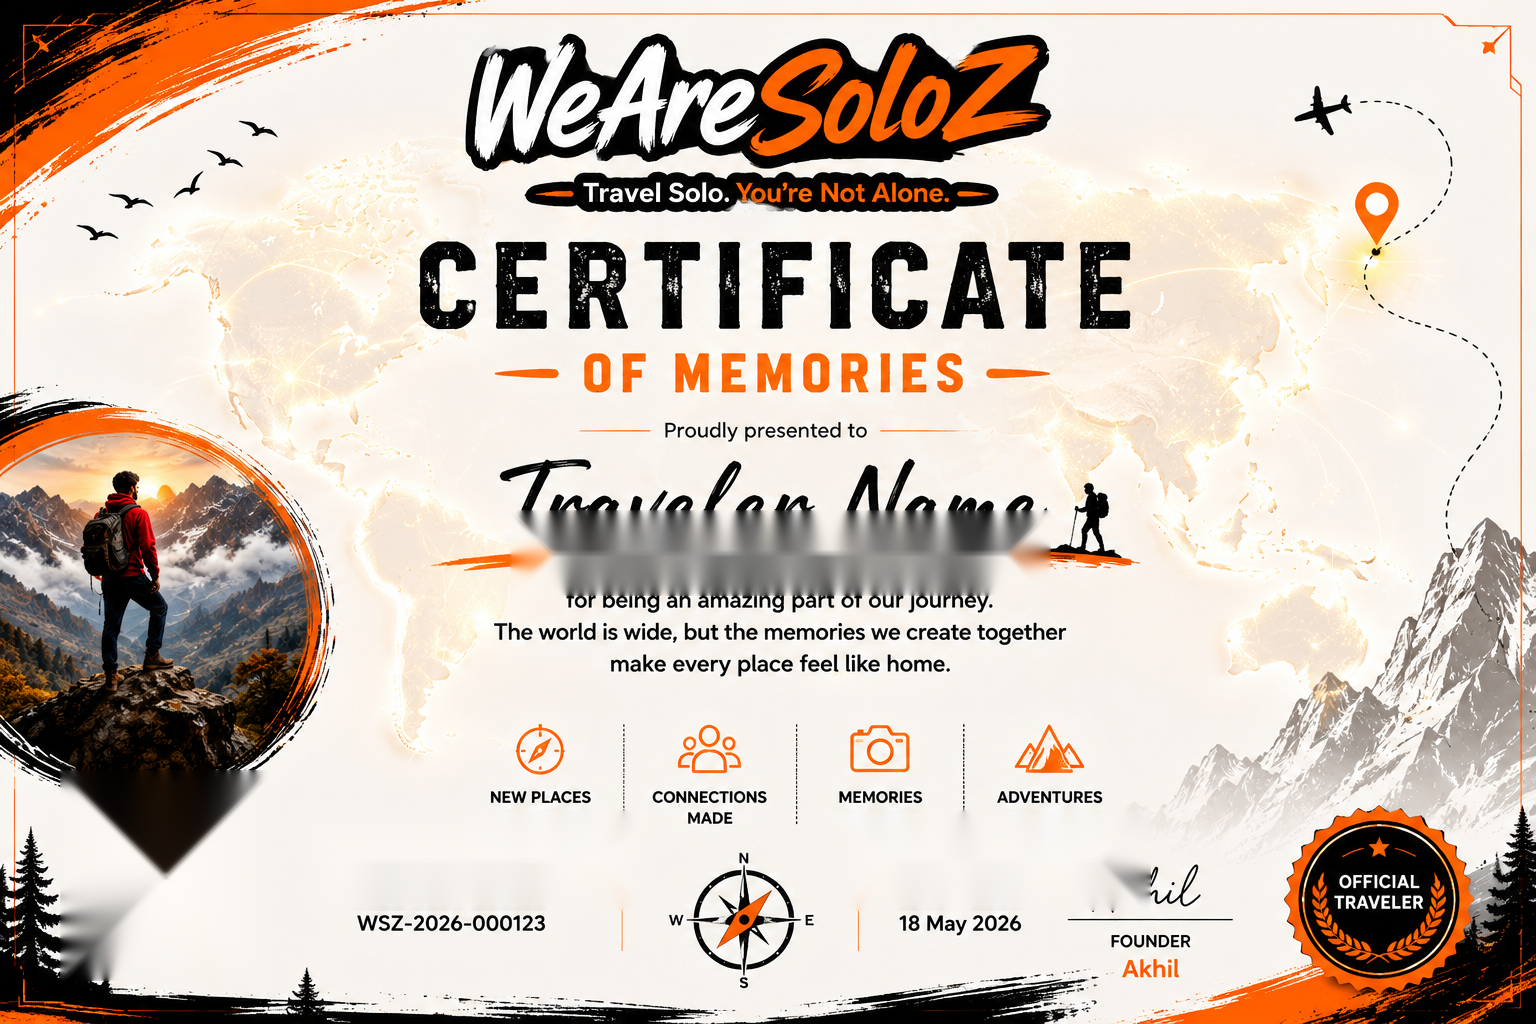
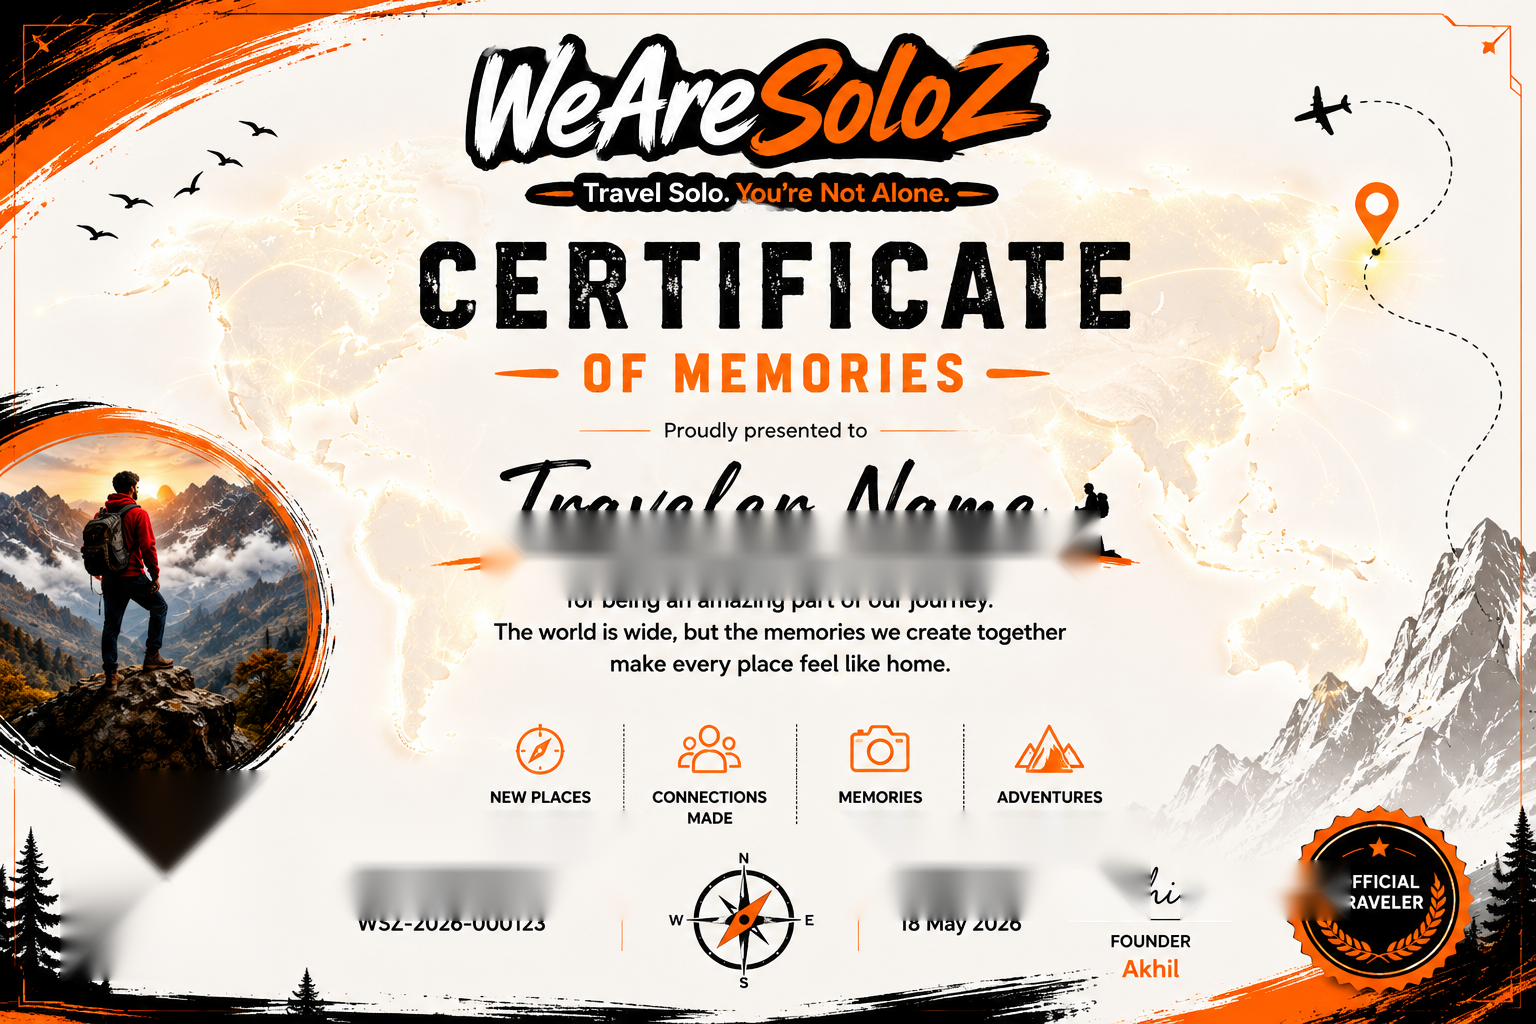
fix(certificate): inpaint all sample text with Telea radius=15 and add cache buster query parameter to template image URL

diff --git a/app/certificate/[id]/page.tsx b/app/certificate/[id]/page.tsx
@@ -88,7 +88,7 @@ export default function CertificatePage({ params }: { params: Promise<{ id: stri
       const img = new window.Image();
       img.onload = () => resolve(img);
       img.onerror = (e) => reject(e);
-      img.src = "/images/master_certificate_template.png";
+      img.src = "/images/master_certificate_template.png?v=" + Date.now();
     });
 
     // Draw Master Template Image
